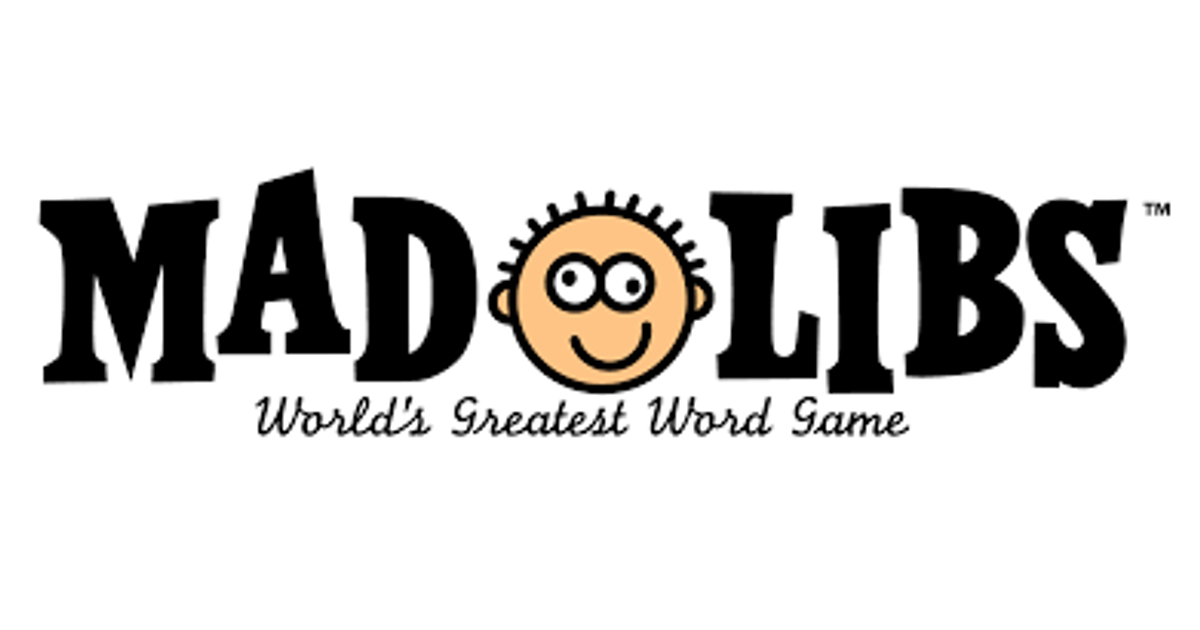
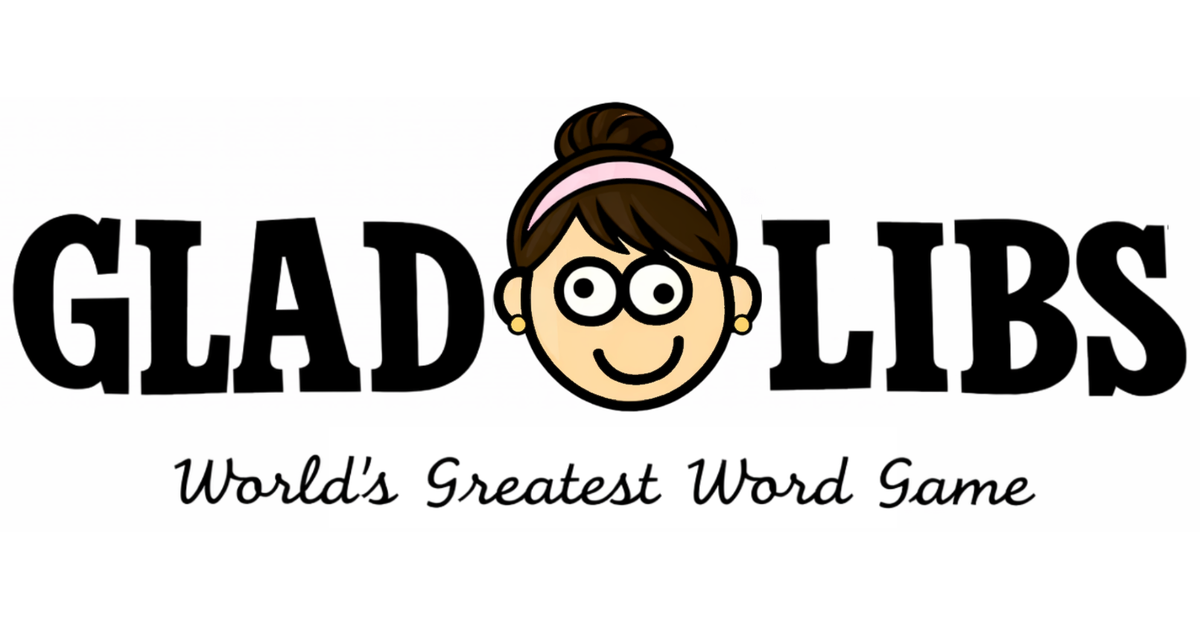
Use brunette girl as OG preview image

Changed region(s): [[0.0, 0.1508, 1.0, 0.6937], [0.1233, 0.7238, 0.8633, 0.8143]]

diff --git a/client/scripts/generate-og-image.js b/client/scripts/generate-og-image.js
@@ -15,7 +15,7 @@
 const fs = require('fs');
 const path = require('path');
 
-const sourcePath = path.join(__dirname, '../src/assets/madlibslogo.png');
+const sourcePath = path.join(__dirname, '../src/assets/glad-libs-brunette-girl.png');
 const outputPath = path.join(__dirname, '../public/og-image.png');
 
 // Target dimensions for Open Graph images
